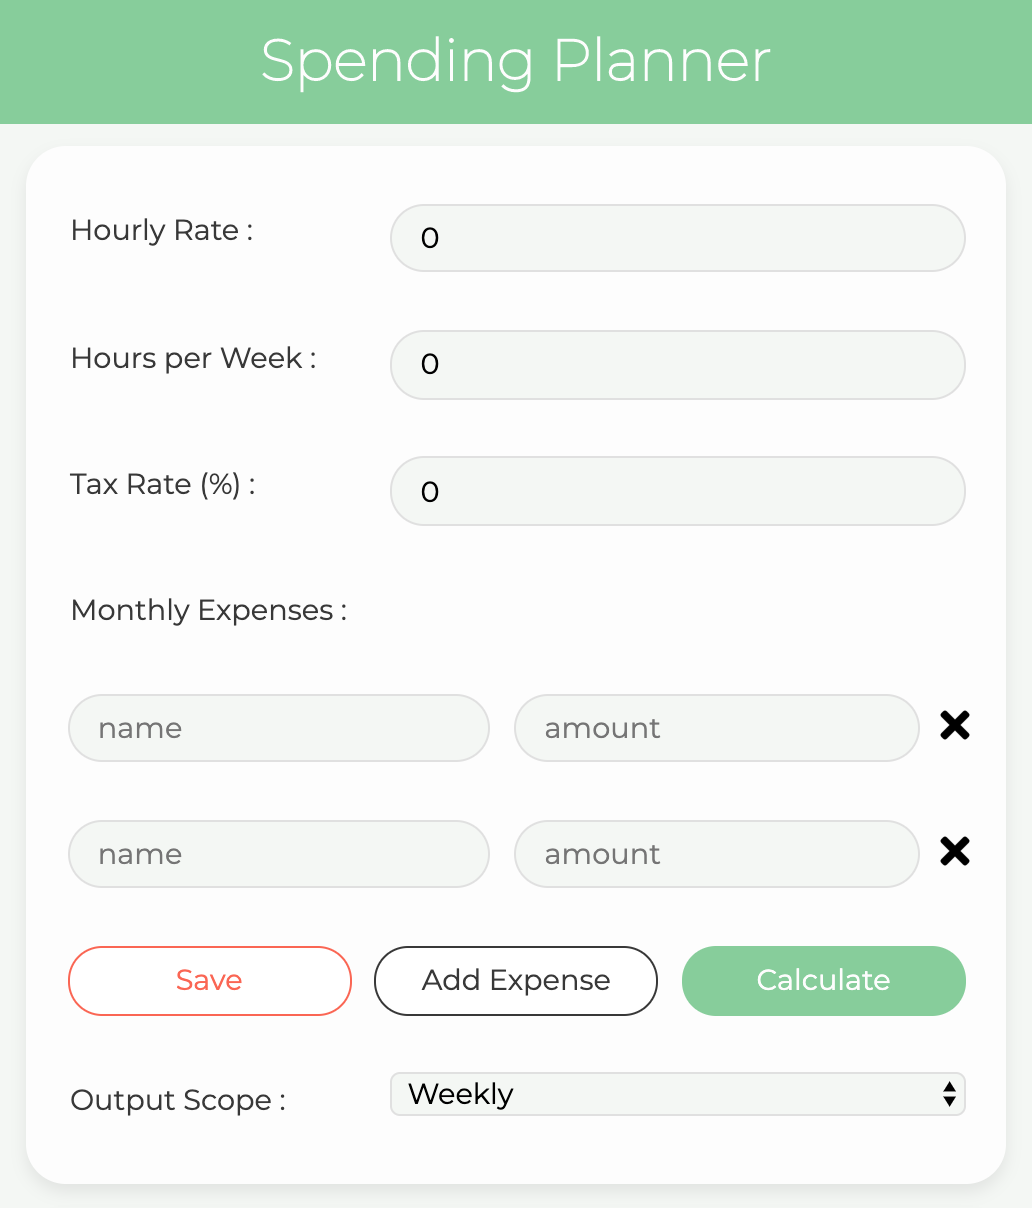
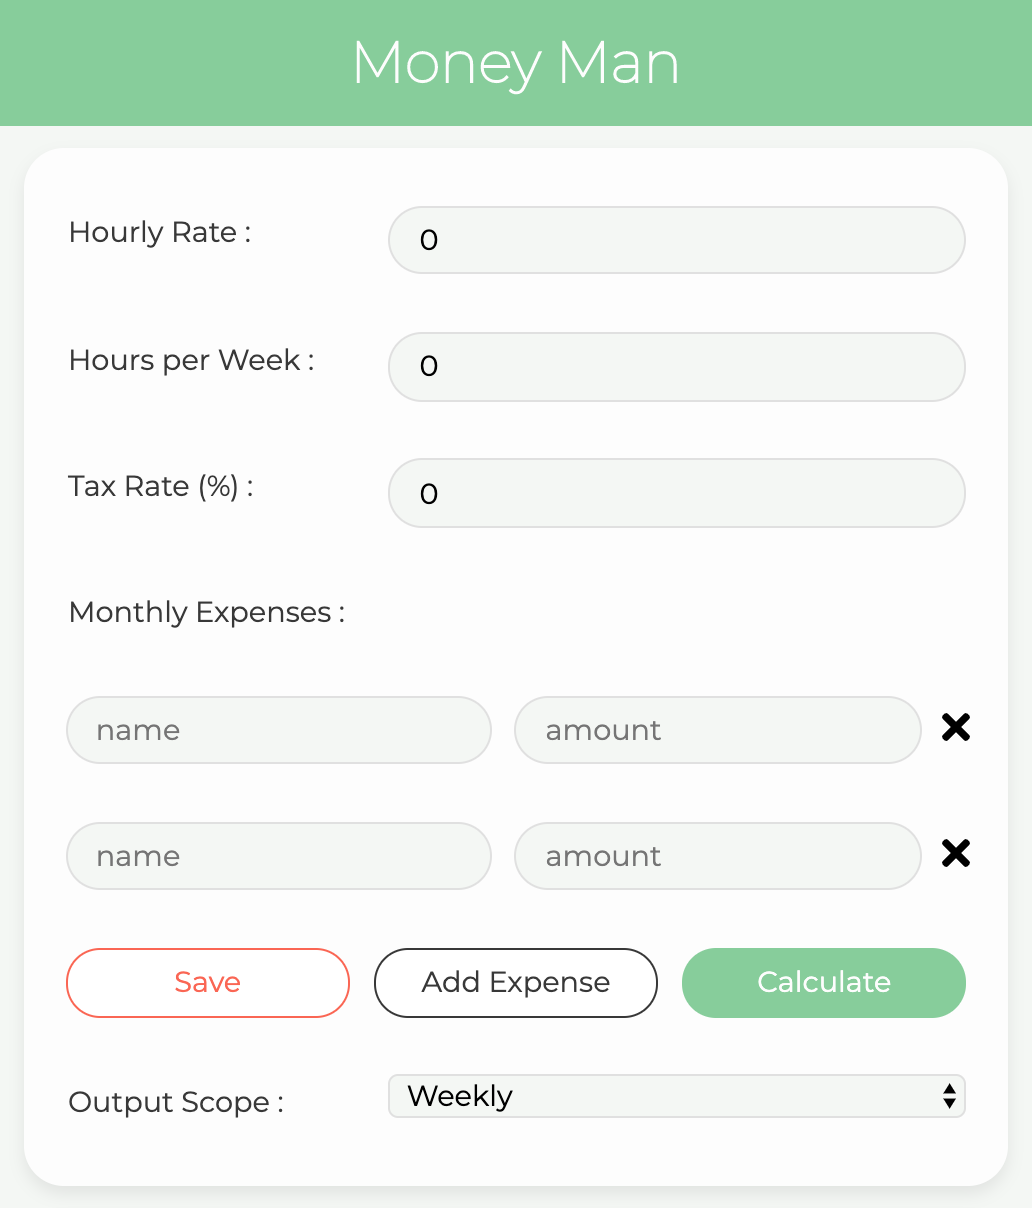
Update README

diff --git a/index.html b/index.html
@@ -10,7 +10,7 @@
 
 <body>
   <div class=" appHead">
-    <h1>Spending Planner</h1>
+    <h1>Money Man</h1>
   </div>
   <div id="breakpoint" class="splitCol">
   <div class="grid-wrapper" id="inputGrid">

diff --git a/README.md b/README.md
@@ -1,5 +1,5 @@
 # Money Man
 
-Money? Never met her
+A small application that allows hourly workers see how much they make, are taxed, and spend.
 
-This is a small application that lets hourly workers see how much they make, are taxed, and spend.
+<img src="./screenshot.png" alt="A screenshot of money man" width="auto" height="500" />
